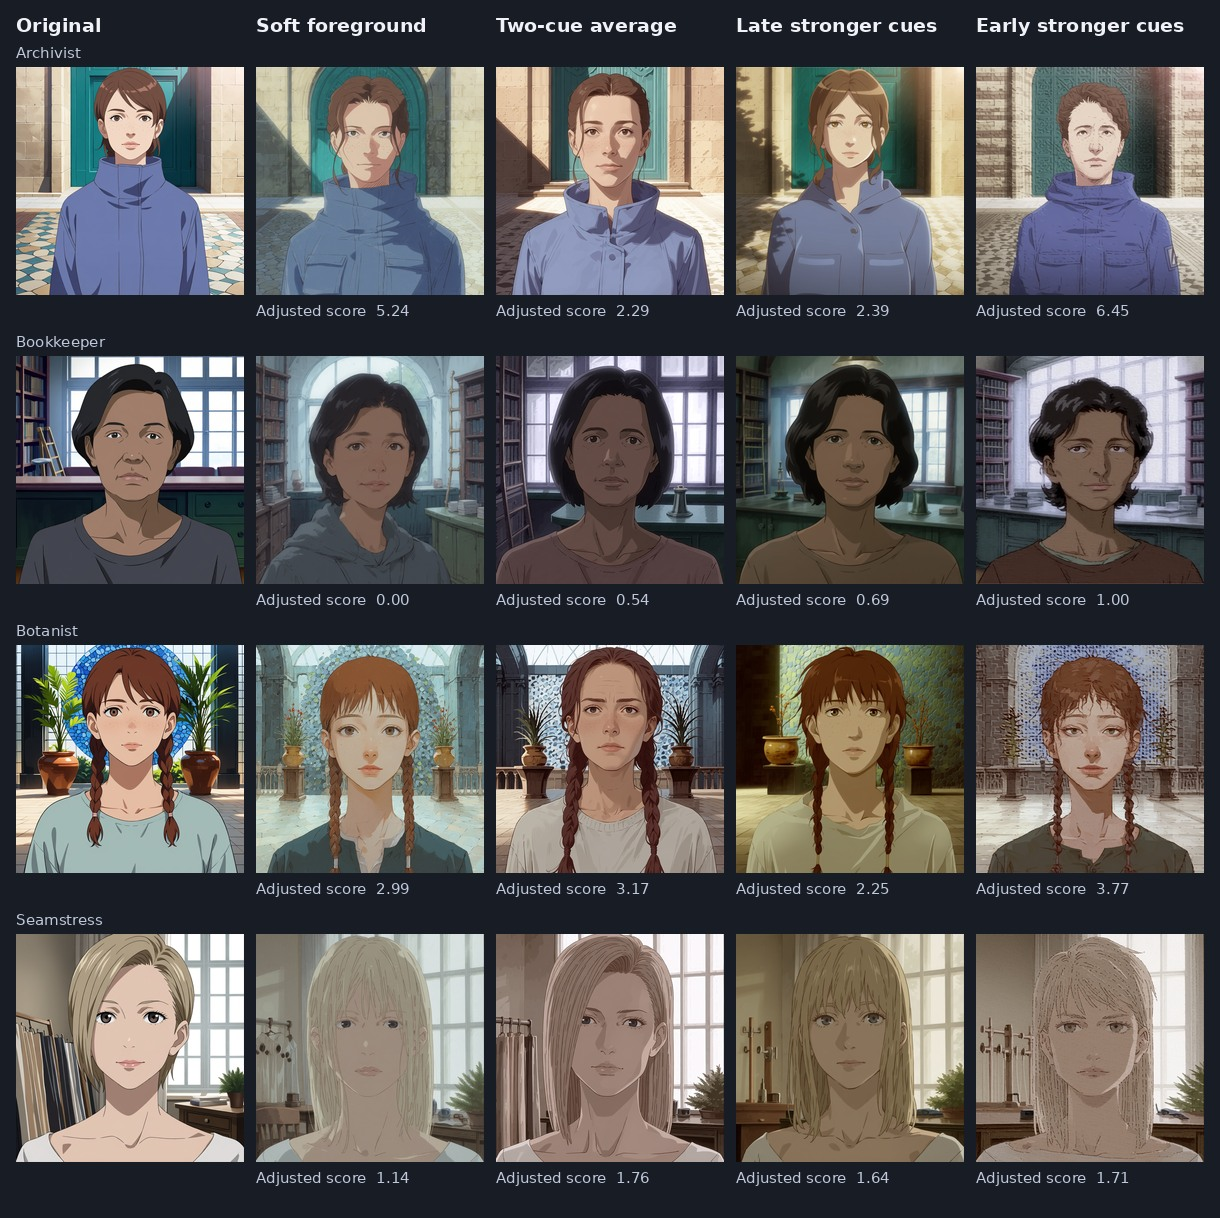
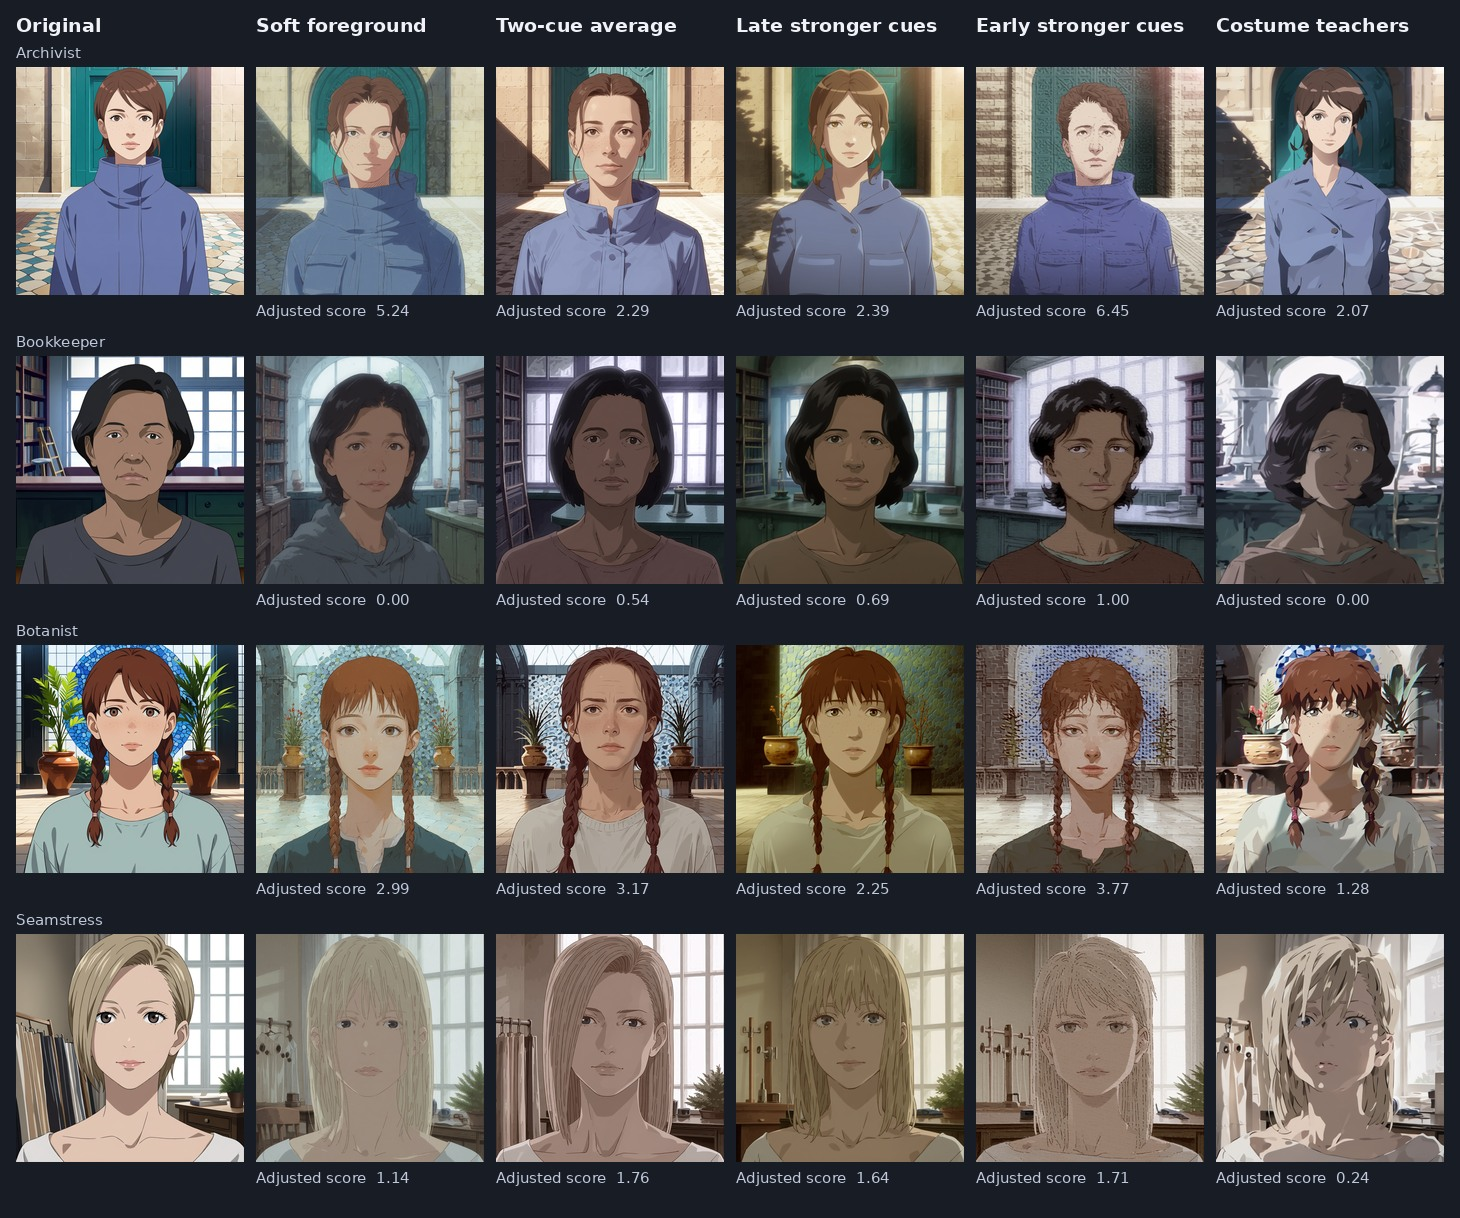
Add the costume-teacher run at update 48

diff --git a/docs/leaderboard.md b/docs/leaderboard.md
@@ -33,9 +33,9 @@ Stronger Boss distinction accounts for **3.52** of the cue blend’s constant-st
 
 ## Update-48 preview
 
-All four recipes passed the structural checks. Stronger cues at the first three teacher positions led under the leaderboard rubric with **3.23** at shared early α 2/3. Soft foreground weighting scored **2.34**, the two-cue average **1.94**, and late cues **1.74**. Early cues gained more Boss distinction and also had the highest mean image damage (**0.305**). The archivist and botanist renders show visible speckling. [Four matched cases across all recipes](final-boss-raw192/ablations/cue-timing-raw48-matched.jpg) · [Per-case scores](final-boss-raw192/ablations/cue-timing-raw48-scores.json)
+All five recipes passed the structural checks. Stronger cues at the first three teacher positions led with **3.23** at shared early α 2/3. Soft foreground weighting scored **2.34**, the two-cue average **1.94**, late cues **1.74**, and the qualified costume teachers **0.90**. The costume-teacher recipe had the highest mean image damage (**0.403**) and the weakest Boss distinction gain (**+0.020**). [Four matched cases across all recipes](final-boss-raw192/ablations/cue-timing-raw48-matched.jpg) · [Per-case scores](final-boss-raw192/ablations/cue-timing-raw48-scores.json)
 
-Mean gain under the quarter-check question was **+0.228** for early cues, **+0.186** for soft foreground weighting, **+0.176** for late cues, and **+0.174** for the two-cue average.
+Mean gain under the quarter-check question was **+0.228** for early cues, **+0.186** for soft foreground weighting, **+0.176** for late cues, **+0.174** for the two-cue average, and **+0.149** for the costume teachers.
 
 ## Update-96 preview
 
